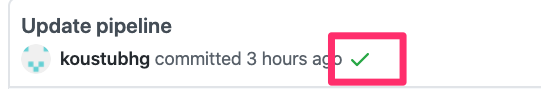
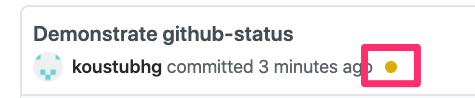
Updated README

diff --git a/README.md b/README.md
@@ -65,15 +65,66 @@ Once the docker container is ready. The CD tool will automatically deploy the do
 Public API implementation - http://130.211.117.181/version
 Github repository (app) - https://github.com/koustubh25/anz-technical-tests/tree/master/test-2
 Github repository (releases) - https://github.com/koustubh25/anz-technical-tests-releases
-
+Concourse pipeline - http://104.198.178.83/teams/main/pipelines/anz-test-deploy
 
 The flow is as shown below:
 
-![logo](test-2/anz.svg)
+![architecture](test-2/images/anz.svg)
 
 
 1. As soon as a developer makes an update to the `anz-technical-tests` repo, a  concourse pipeline is triggered. You can see the status changed on the commits page on github https://github.com/koustubh25/anz-technical-tests/commits/master like this 
 
 ![status](test-2/images/github-status.png)
 
-2. This pipeline 
+2. This pipeline will do the following:
+i. **Run unit tests** - The unit tests are located in `version_test.go` file. It will mainly check that `/resource/version.json` is present and the `json schema` is valid.
+ii. **Run Integration tests** - This task will try and start the docker container for the app and then from another docker container try and hit the `/version` endpoint. If the response is the same as the file contents, then the tests pass. 
+iii. **Create a Docker image** - This will create a docker images based on `Dockerfile` contents
+iv. **Upload docker image** - The build docker image is then uploaded to Google Container Registry
+The concourse pipeline can be accessed here (test/test)
+
+3. There is a Flux k8s operator setup in the GKE cluster. This oeprator is responsible for listening on any updated to this repo on GCR. 
+One other thread in this operator syncs the config from https://github.com/koustubh25/anz-technical-tests-releases into the cluster.
+
+Once there is a new image  in GCR, it will update the releases repo and sync the config in the cluster. That will deploy the new docker image into the cluster.
+
+4. Once it is deployed, a user can the simply hit curl http://130.211.117.181/version and check the version based on output.
+
+**Risks Associated**
+
+1. The setup is not designed for scaling. It would be a problem if there is large amount of traffic.
+2. There is no SSL enabled for any of the hosted services.
+3. Both the images and GKE cluster is all hosted in the US because of the availablity of free credits.
+
+**Versioning**
+
+[Semantic versioning](https://semver.org/) is used, that follows the convention 
+```
+MAJOR_VERSION.MINOR_VERSION.PATCH
+```
+e.g. `1.2.3`
+
+In our code, for the sake of simplicity the concourse pipeline will always increment the patch version 
+```
+e.g. 1.2.3 -> 1.2.4
+```
+
+**Code run through**
+
+I. Check current version
+```
+curl http://130.211.117.181/version
+{
+  "anz-version-test": [
+    {
+      "version": "0.0.1",
+      "lastcommitsha": "0b2178f01296aa1815ff409d4a031cdf9d0a711e",
+      "description": "pre-interview"
+    }
+  ]
+}
+```
+
+II. Make some changes to this repo and push
+III. Wait for the the build. You can confirm the build is complete once there is a green tick in front of your commit on github.
+IV. Try again
